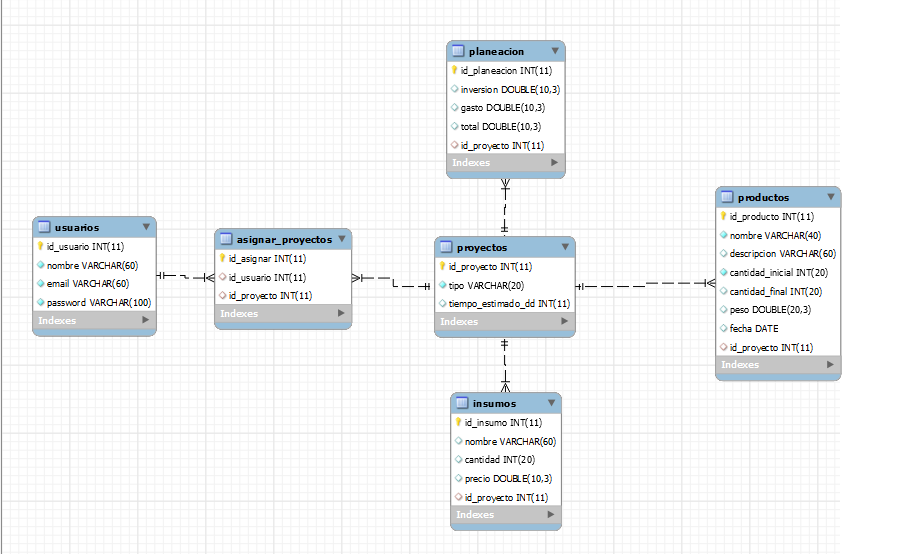
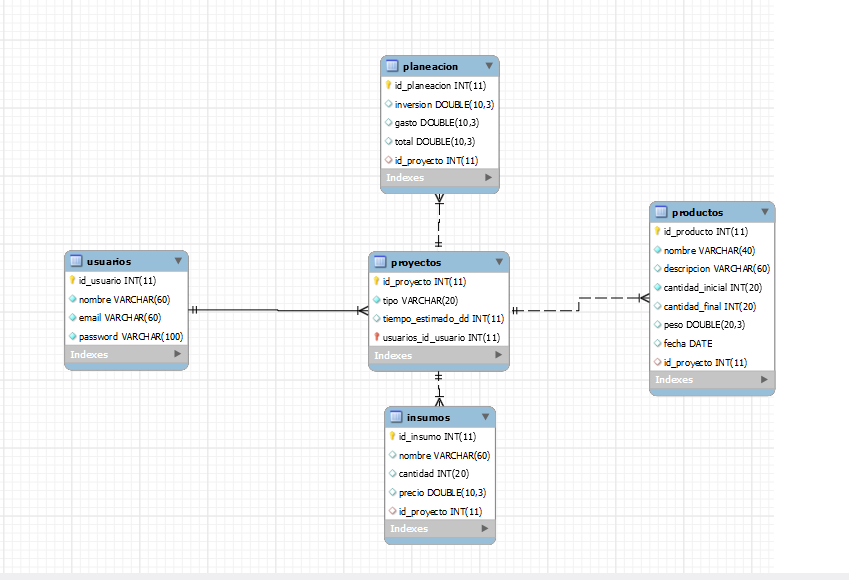
restructura de database

Changed region(s): [[0.0306, 0.3682, 0.6737, 0.9819], [0.6737, 0.3375, 0.9187, 0.7058], [0.4287, 0.0614, 0.6125, 0.3682]]

diff --git a/BACK-END/proyectofinal/src/main/java/com/vienteros/proyectofinal/model/Proyecto.java b/BACK-END/proyectofinal/src/main/java/com/vienteros/proyectofinal/model/Proyecto.java
@@ -17,15 +17,16 @@ public class Proyecto {
     @Column(name = "tiempo_estimado_dd")
     private int tiempoEstimadoDias;
 
-    @OneToMany(targetEntity = AsignarProyecto.class, fetch = FetchType.LAZY, mappedBy = "proyecto")
-    private List<AsignarProyecto> asignarProyectos;
-
-    @OneToMany(targetEntity = AsignarProyecto.class, fetch = FetchType.LAZY, mappedBy = "proyecto")
+    @OneToMany(targetEntity = Insumo.class, fetch = FetchType.LAZY, mappedBy = "proyecto")
     private List<Insumo> insumos;
 
-    @OneToMany(targetEntity = AsignarProyecto.class, fetch = FetchType.LAZY, mappedBy = "proyecto")
-    private List<Planeacion> planeacion;
+    @OneToMany(targetEntity = Planeacion.class, fetch = FetchType.LAZY, mappedBy = "proyecto")
+    private List<Planeacion> planeaciones;
 
-    @OneToMany(targetEntity = AsignarProyecto.class, fetch = FetchType.LAZY, mappedBy = "proyecto")
+    @OneToMany(targetEntity = Producto.class, fetch = FetchType.LAZY, mappedBy = "proyecto")
     private List<Producto> productos;
+
+    @ManyToOne(targetEntity = Usuario.class)
+    @JoinColumn(name = "id_usuario")
+    private Usuario usuario;
 }

diff --git a/BACK-END/proyectofinal/src/main/java/com/vienteros/proyectofinal/service/impl/UsuarioService.java b/BACK-END/proyectofinal/src/main/java/com/vienteros/proyectofinal/service/impl/UsuarioService.java
@@ -1,9 +1,11 @@
-package com.vienteros.proyectofinal.service;
+package com.vienteros.proyectofinal.service.impl;
 
 import com.vienteros.proyectofinal.DTO.UsuarioDTO;
 import com.vienteros.proyectofinal.exception.UsuarioNotFoundException;
 import com.vienteros.proyectofinal.model.Usuario;
 import com.vienteros.proyectofinal.repository.UsuarioRepository;
+import com.vienteros.proyectofinal.service.IUsuarioService;
+
 import org.springframework.beans.factory.annotation.Autowired;
 import org.springframework.stereotype.Service;
 

diff --git a/BACK-END/proyectofinal/src/main/java/com/vienteros/proyectofinal/service/impl/ProductoService.java b/BACK-END/proyectofinal/src/main/java/com/vienteros/proyectofinal/service/impl/ProductoService.java
@@ -1,7 +1,9 @@
-package com.vienteros.proyectofinal.service;
+package com.vienteros.proyectofinal.service.impl;
 
 import com.vienteros.proyectofinal.model.Producto;
 import com.vienteros.proyectofinal.repository.ProductoRepository;
+import com.vienteros.proyectofinal.service.IProductoService;
+
 import org.springframework.beans.factory.annotation.Autowired;
 import org.springframework.stereotype.Service;
 

diff --git a/BACK-END/proyectofinal/src/main/java/com/vienteros/proyectofinal/service/impl/InsumoService.java b/BACK-END/proyectofinal/src/main/java/com/vienteros/proyectofinal/service/impl/InsumoService.java
@@ -1,7 +1,9 @@
-package com.vienteros.proyectofinal.service;
+package com.vienteros.proyectofinal.service.impl;
 
 import com.vienteros.proyectofinal.model.Insumo;
 import com.vienteros.proyectofinal.repository.InsumoRepository;
+import com.vienteros.proyectofinal.service.IInsumoService;
+
 import org.springframework.beans.factory.annotation.Autowired;
 import org.springframework.stereotype.Service;
 

diff --git a/BACK-END/proyectofinal/src/main/java/com/vienteros/proyectofinal/model/Usuario.java b/BACK-END/proyectofinal/src/main/java/com/vienteros/proyectofinal/model/Usuario.java
@@ -18,6 +18,6 @@ public class Usuario {
     private String email;
     private String password;
 
-    @OneToMany(targetEntity = AsignarProyecto.class, fetch = FetchType.LAZY, mappedBy = "usuario")
-    private List<AsignarProyecto> asignarProyectos;
+    @OneToMany(targetEntity = Proyecto.class, fetch = FetchType.LAZY, mappedBy = "usuario")
+    private List<Proyecto> proyectos;
 }
